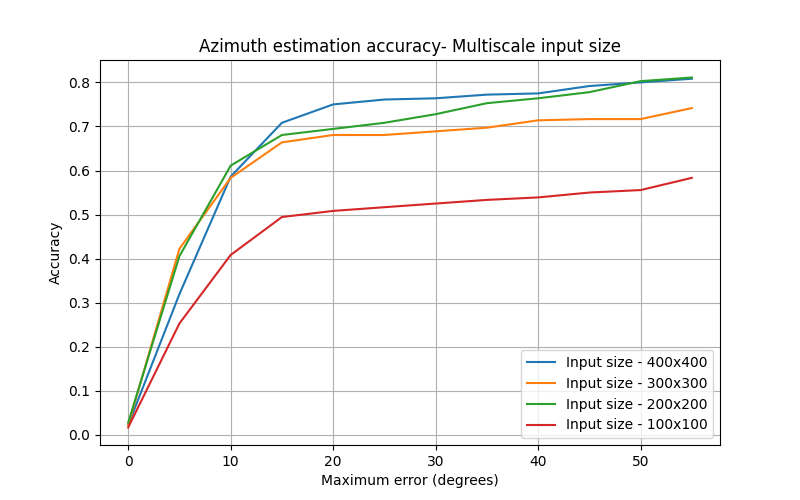
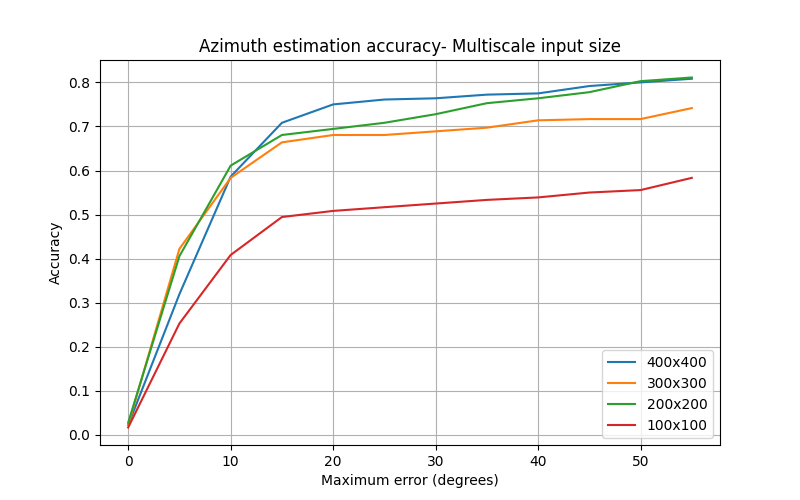
commit

Changed region(s): [[0.6562, 0.69, 0.9062, 0.9]]

diff --git a/viewpoint-estimation-3d/train.py b/viewpoint-estimation-3d/train.py
@@ -42,11 +42,7 @@ x = tf.keras.layers.Dense(1024, activation="relu")(x)
 outputs = tf.keras.layers.Dense(360, activation="softmax")(x)
 
 model = tf.keras.Model(inputs=baseModel.input, outputs=outputs)
-model.summary()
-"""
-model = myModel(input_shape=(INPUT_SIZE[0], INPUT_SIZE[1], 3), nclasses=360)
-model.build(input_shape=(None, INPUT_SIZE[0], INPUT_SIZE[1], 3))
-model.summary()"""
+
 
 # Define cost function, optimizer and metrics
 loss_object = tf.keras.losses.CategoricalCrossentropy(reduction=tf.keras.losses.Reduction.NONE)
@@ -80,7 +76,7 @@ def test_step(images, labels):
 
 # Define checkpoint manager to save model weights
 checkpoint = tf.train.Checkpoint(model=model, optimizer=optimizer)
-checkpoint_dir = "/scratch/hnkmah001/phd-projects/viewpoint-estimation-3d/checkpoints/"
+checkpoint_dir = "./checkpoints/"
 if not os.path.isdir(checkpoint_dir):
     os.mkdir(checkpoint_dir)
 manager = tf.train.CheckpointManager(checkpoint, directory=checkpoint_dir, max_to_keep=10)
@@ -99,8 +95,6 @@ for step in range(args.steps):
         img = np.array(img).astype("uint8")
         img = cv.resize(img, INPUT_SIZE, interpolation=cv.INTER_AREA)
         img = np.repeat(img[:,:, np.newaxis], 3, axis=-1)
-        #img = tf.keras.preprocessing.image.random_shift(img, wrg=0.1, hrg=0.1, row_axis=0, 
-        #      col_axis=1, channel_axis=2, fill_mode='constant', cval=0.0, interpolation_order=1)
         #img = tf.keras.preprocessing.image.random_rotation(img, rg=30, row_axis=0, 
         #      col_axis=1, channel_axis=2, fill_mode='constant', cval=0.0, interpolation_order=1)
         x_train.append(img)
@@ -108,29 +102,25 @@ for step in range(args.steps):
         #plt.show()
     x_train = np.array(x_train)
     train_data = tf.data.Dataset.from_tensor_slices((x_train, y_train)).batch(args.batch_size)
-
+    toc1 = time.time()
     # Save logs with TensorBoard Summary
     if step == 0:
-        train_logdir = "/scratch/hnkmah001/phd-projects/viewpoint-estimation-3d/logs/train"
-        val_logdir = "/scratch/hnkmah001/phd-projects/viewpoint-estimation-3d/logs/val"
-        tf.profiler.experimental.start(train_logdir)
+        train_logdir = "./logs/train"
+        val_logdir = "./logs/val"
+        
         train_summary_writer = tf.summary.create_file_writer(train_logdir)
         val_summary_writer = tf.summary.create_file_writer(val_logdir)
-        tf.summary.trace_on(graph=True)
-    
+
     for images, labels in train_data.map(preprocess, num_parallel_calls=tf.data.experimental.AUTOTUNE):
         train_step(images, labels)
-        if step == 0:
-            with train_summary_writer.as_default():
-                tf.summary.trace_export(name="InceptionV3", step=0)
         step += 1
         with train_summary_writer.as_default():
             tf.summary.scalar("loss", train_loss.result(), step=step)
             tf.summary.scalar("accuracy", train_accuracy.result(), step=step)
-            tf.summary.image("image", images, step=step, max_outputs=8)
-        toc = time.time()
-        print("Step {}: \t loss = {:.4f} \t acc = {:.4f} \t ({:.2f} seconds/step)".format(step, 
-            train_loss.result(), train_accuracy.result(), toc-tic))
+            tf.summary.image("image", images, step=step, max_outputs=2)
+        toc2 = time.time()
+        print("Step {}: \t loss = {:.4f} \t acc = {:.4f} \t data: {:.2f} seconds \t training:  {:.2f} seconds".format(step, 
+            train_loss.result(), train_accuracy.result(), toc1-tic, toc2-toc1))
         # Reset metrics for the next iteration
         train_loss.reset_states()
         train_accuracy.reset_states()
@@ -157,7 +147,7 @@ for step in range(args.steps):
         with val_summary_writer.as_default():
             tf.summary.scalar("val_loss", test_loss.result(), step=epoch)
             tf.summary.scalar("val_accuracy", test_accuracy.result(), step=epoch)
-            tf.summary.image("val_images", test_images, step=step, max_outputs=8)
+            tf.summary.image("val_images", test_images, step=step, max_outputs=2)
 
         ckpt_path = manager.save()
         template = "\t Validation Loss: {:.4f}, Validation Accuracy: {:.4f}, ckpt {}\n\n"

diff --git a/viewpoint-estimation/results/result.py b/viewpoint-estimation/results/result.py
@@ -12,9 +12,10 @@ medErr_soft_classification = 9.0
 acc_soft_classification = [0.0222, 0.3194, 0.5861, 0.7083, 0.7500, 0.7611, 0.7639, 0.7722, 0.7750, 0.7917, 0.8000, 0.8083]
 medErr_hard_classification = 19.0
 acc_hard_classification = [0.0139, 0.2083, 0.3667, 0.4556, 0.5056, 0.5389, 0.5611, 0.5917, 0.6083, 0.6167, 0.6250, 0.6333]
+medErr_geom_loss = 10.0
+acc_geom_loss = [0.0000, 0.2833, 0.5111, 0.6500, 0.6806, 0.7111, 0.7167, 0.7333, 0.7444, 0.7583, 0.7667,  0.7750]
 medErr_soft_classification_300x300 = 7.0
 acc_soft_classification_300x300 = [0.0222, 0.4222, 0.5833, 0.6639, 0.6806, 0.6806, 0.6889,  0.6972, 0.7139, 0.7167, 0.7167, 0.7417]
-
 medErr_soft_classification_200x200 = 7.0
 acc_soft_classification_200x200 = [0.0278, 0.4056, 0.6111, 0.6806, 0.6944, 0.7083, 0.7278, 0.7528, 0.7639, 0.7778, 0.8028, 0.8111]
 medErr_soft_classification_100x100 = 15.5
@@ -26,9 +27,10 @@ plt.ylabel("Accuracy")
 plt.xlabel("Maximum error (degrees)")
 
 plt.plot(thresholds, acc_regression, label="Regression")
-plt.plot(thresholds, acc_knn, label="KNN")
+plt.plot(thresholds, acc_knn, label="Nearest Neighbor")
 plt.plot(thresholds, acc_soft_classification, label="Soft classification")
 plt.plot(thresholds, acc_hard_classification, label="Hard classification")
+plt.plot(thresholds, acc_geom_loss, label="Geometry-aware classification")
 plt.legend(loc="lower right")
 plt.grid(True)
 plt.savefig("azimuth_accuracy.png")
@@ -38,37 +40,39 @@ plt.title("Azimuth estimation accuracy- Multiscale input size")
 plt.ylabel("Accuracy")
 plt.xlabel("Maximum error (degrees)")
 
-plt.plot(thresholds, acc_soft_classification, label="Input size - 400x400")
-plt.plot(thresholds, acc_soft_classification_300x300, label="Input size - 300x300")
-plt.plot(thresholds, acc_soft_classification_200x200, label="Input size - 200x200")
-plt.plot(thresholds, acc_soft_classification_100x100, label="Input size - 100x100")
+plt.plot(thresholds, acc_soft_classification, label="400x400")
+plt.plot(thresholds, acc_soft_classification_300x300, label="300x300")
+plt.plot(thresholds, acc_soft_classification_200x200, label="200x200")
+plt.plot(thresholds, acc_soft_classification_100x100, label="100x100")
 plt.legend(loc="lower right")
 plt.grid(True)
 plt.savefig("azimuth_accuracy_multiscale.png")
 
 
-medErrs = [medErr_regression, medErr_knn, medErr_hard_classification, medErr_soft_classification]
+medErrs = [medErr_regression, medErr_knn, medErr_hard_classification, medErr_soft_classification, medErr_geom_loss]
 
 medErrs_multiscale = [medErr_soft_classification, medErr_soft_classification_300x300, medErr_soft_classification_200x200, medErr_soft_classification_100x100]
 
-plt.figure(figsize=[4, 4])
+plt.figure(figsize=[7, 4])
 plt.title("Azimuth estimation - Median Error")
 plt.ylabel("Median Error (degrees)")
 plt.bar(0, medErrs[0], color="b", label="Regression")
-plt.bar(1, medErrs[1], color="orange", label="KNN")
+plt.bar(1, medErrs[1], color="orange", label="Nearest neighbor")
 plt.bar(2, medErrs[2], color="r", label="Hard classification")
 plt.bar(3, medErrs[3], color="g", label="Soft classification")
-plt.xticks([0, 1, 2, 3], [])
+plt.bar(4, medErrs[4], label="Geometry-aware classification")
+
+plt.xticks([0, 1, 2, 3, 4], [])
 plt.legend(loc="upper right")
 plt.savefig("azimuth_mederr.png")
 
 plt.figure(figsize=[4, 4])
 plt.title("Azimuth estimation Median Error - Multiscale input size")
 plt.ylabel("Median Error (degrees)")
-plt.bar(0, medErrs_multiscale[0], color="b", label="Input size - 400x400")
-plt.bar(1, medErrs_multiscale[1], color="orange", label="Input size - 300x300")
-plt.bar(2, medErrs_multiscale[2], color="g", label="Input size - 200x200")
-plt.bar(3, medErrs_multiscale[3], color="r", label="Input size - 100x100")
+plt.bar(0, medErrs_multiscale[0], color="b", label="400x400")
+plt.bar(1, medErrs_multiscale[1], color="orange", label="300x300")
+plt.bar(2, medErrs_multiscale[2], color="g", label="200x200")
+plt.bar(3, medErrs_multiscale[3], color="r", label="100x100")
 #plt.bar(3, medErrs_multiscale[3], color="g", label="Soft classification")
 plt.xticks([0, 1, 2, 3], [])
 plt.legend(loc="upper left")

diff --git a/viewpoint-estimation-3d/train2.py b/viewpoint-estimation-3d/train2.py
@@ -51,11 +51,6 @@ x = tf.keras.layers.Dense(1024, activation="relu")(x)
 outputs = tf.keras.layers.Dense(360, activation="softmax")(x)
 
 model = tf.keras.Model(inputs=baseModel.input, outputs=outputs)
-model.summary()
-"""
-model = myModel(input_shape=(INPUT_SIZE[0], INPUT_SIZE[1], 3), nclasses=360)
-model.build(input_shape=(None, INPUT_SIZE[0], INPUT_SIZE[1], 3))
-model.summary()"""
 
 # Define cost function, optimizer and metrics
 loss_object = tf.keras.losses.CategoricalCrossentropy(reduction=tf.keras.losses.Reduction.NONE)
@@ -99,10 +94,10 @@ manager = tf.train.CheckpointManager(checkpoint, directory=checkpoint_dir, max_t
 epoch = 0
 for step in range(args.steps):
     tic = time.time()
-    angles = [random.randint(0, 359) for i in range(args.batch_size)]
-    y_train = np.array([soft_label_encoding(i) for i in angles])
+    train_viewpoints = [random.randint(0, 359) for i in range(args.batch_size)]
+    y_train = np.array([soft_label_encoding(i) for i in train_viewpoints])
     x_train = []
-    for theta in angles:
+    for theta in train_viewpoints:
         tx = random.randint(-20, 20)
         ty = random.randint(-20, 20)
         img = get_view(train_img3d, theta, tx, ty)
@@ -112,6 +107,7 @@ for step in range(args.steps):
 
     x_train = np.array(x_train)
     train_data = tf.data.Dataset.from_tensor_slices((x_train, y_train)).batch(args.batch_size)
+    toc1 = time.time()
 
     # Save logs with TensorBoard Summary
     if step == 0:
@@ -120,22 +116,18 @@ for step in range(args.steps):
         
         train_summary_writer = tf.summary.create_file_writer(train_logdir)
         val_summary_writer = tf.summary.create_file_writer(val_logdir)
-        tf.summary.trace_on(graph=True)
     
     for images, labels in train_data.map(preprocess, num_parallel_calls=tf.data.experimental.AUTOTUNE):
         train_step(images, labels)
-        if step == 0:
-            with train_summary_writer.as_default():
-                tf.summary.trace_export(name="InceptionV3", step=0)
         step += 1
         with train_summary_writer.as_default():
             tf.summary.scalar("loss", train_loss.result(), step=step)
             tf.summary.scalar("accuracy", train_accuracy.result(), step=step)
-            tf.summary.image("image", images, step=step, max_outputs=8)
-        toc = time.time()
-        print("Step {}: \t loss = {:.4f} \t acc = {:.4f} \t ({:.2f} seconds/step)".format(step, 
-            train_loss.result(), train_accuracy.result(), toc-tic))
-        # Reset metrics for the next iteration
+            tf.summary.image("image", images, step=step, max_outputs=2)
+        toc2 = time.time()
+        print("Step {}: \t loss = {:.4f} \t acc = {:.4f} \t data: {:.2f} seconds \t training: {:.2f} seconds".format(step, 
+            train_loss.result(), train_accuracy.result(), toc1-tic, toc2-toc1))
+        
         train_loss.reset_states()
         train_accuracy.reset_states()
 
@@ -160,7 +152,7 @@ for step in range(args.steps):
         with val_summary_writer.as_default():
             tf.summary.scalar("val_loss", test_loss.result(), step=epoch)
             tf.summary.scalar("val_accuracy", test_accuracy.result(), step=epoch)
-            tf.summary.image("val_images", test_images, step=step, max_outputs=8)
+            tf.summary.image("val_images", test_images, step=step, max_outputs=2)
 
         ckpt_path = manager.save()
         template = "\t Validation Loss: {:.4f}, Validation Accuracy: {:.4f}, ckpt {}\n\n"
